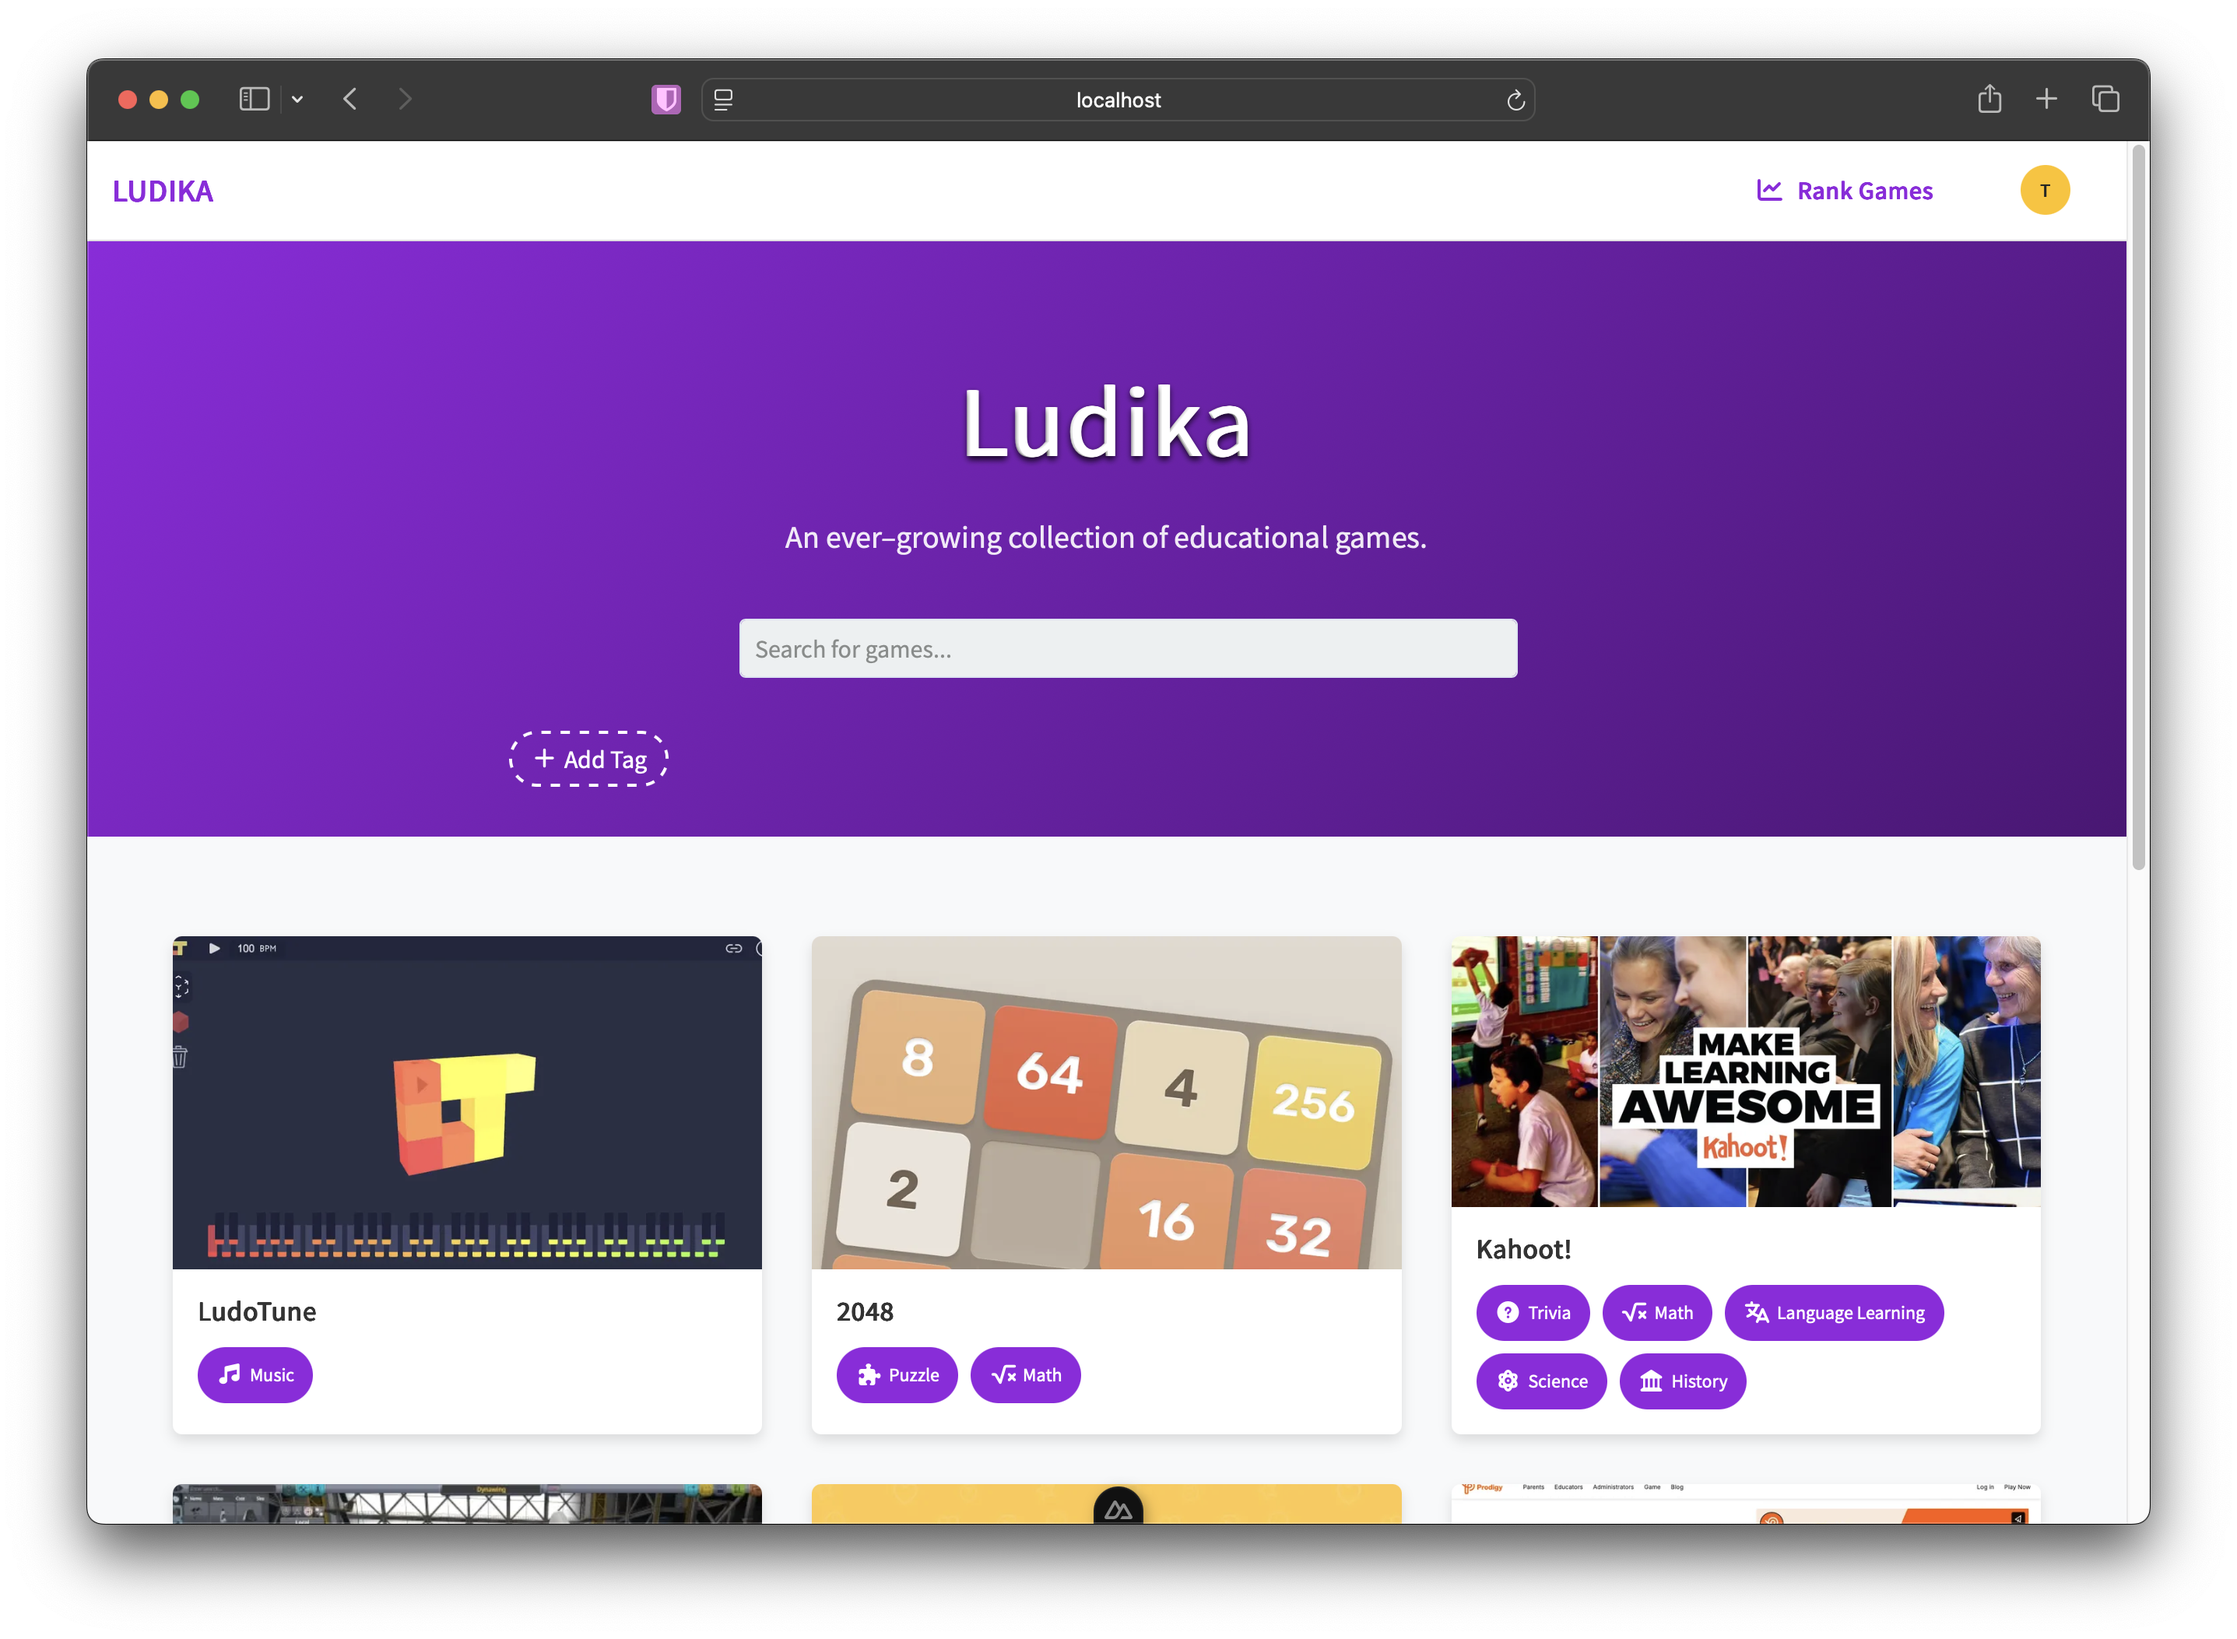
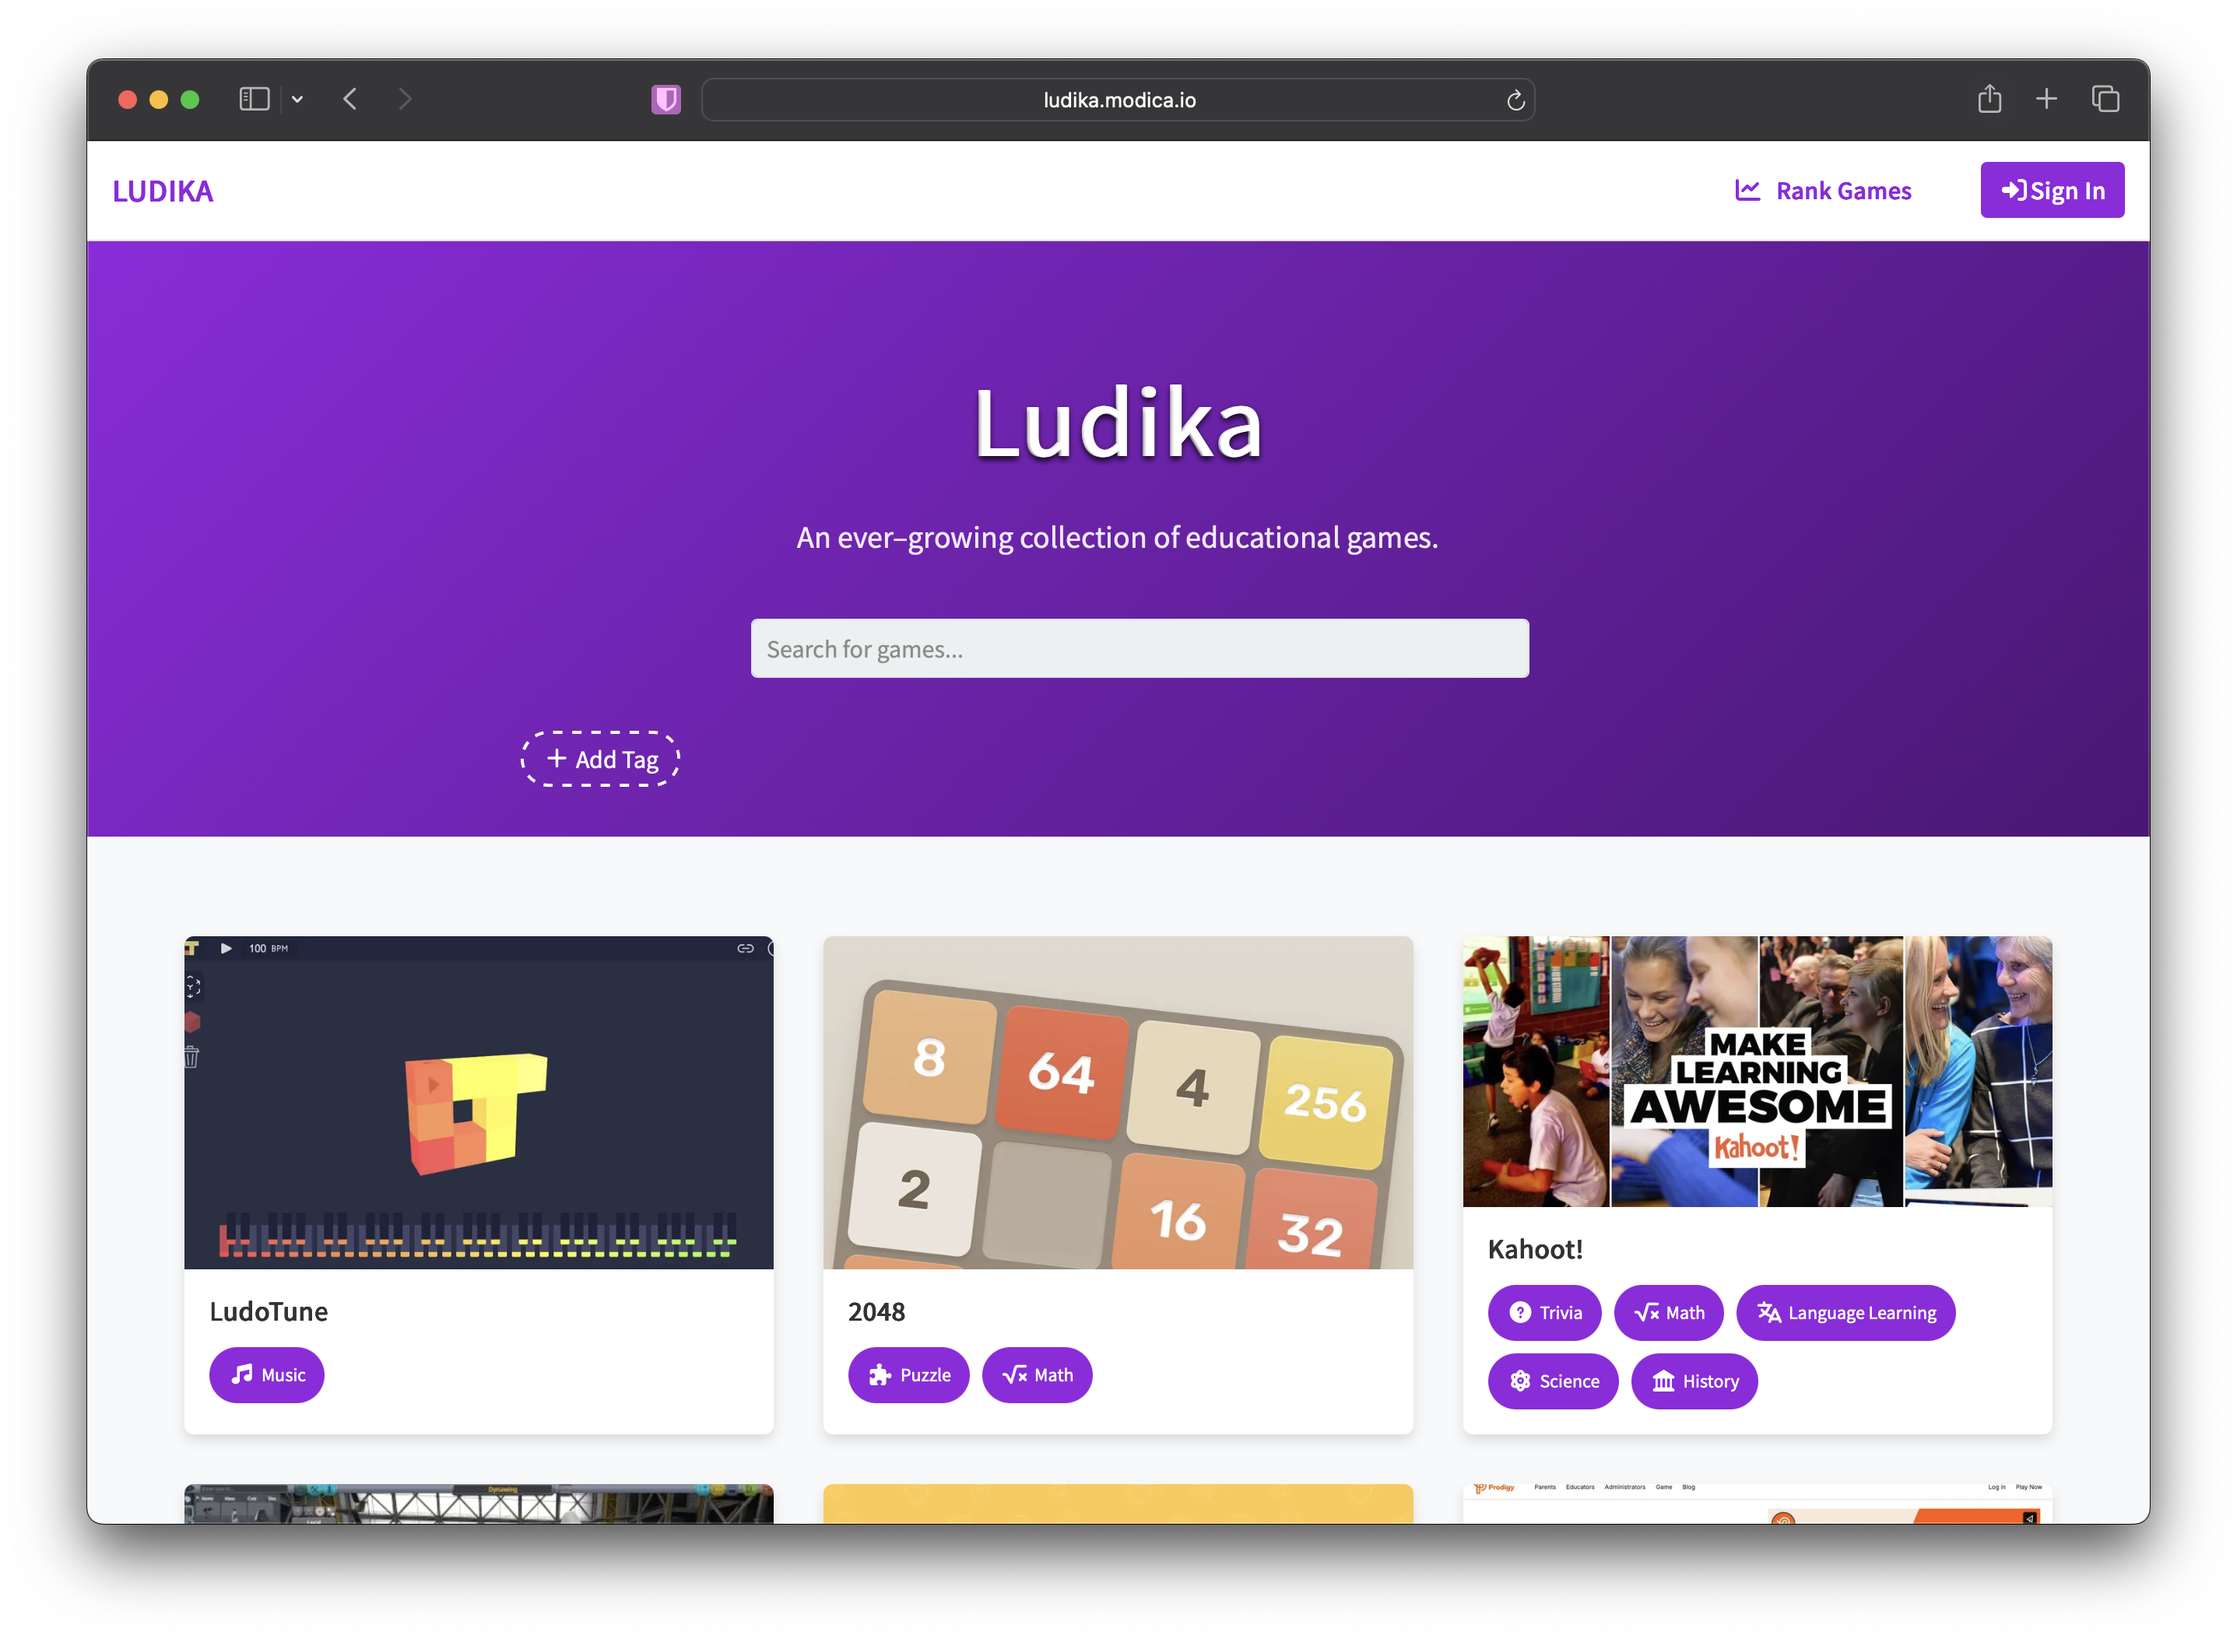
feat: expand documentation

diff --git a/ludika-docs/paper/pii_relazione.tex b/ludika-docs/paper/pii_relazione.tex
@@ -159,14 +159,14 @@ In order to achieve these goals, the project was developed using a three-tier ar
 
 The use of Docker allows for easy deployment and management of the various components of the system, and the Cloudflare CDN enables fast and reliable content delivery.
 
-\section{Related Work---a comparative overview}
-\todo{add a comparative analysis of the most similar existing platforms, and/or relevant studies that have been conducted in the past.}
+% \section{Related Work---a comparative overview}
+% \todo{add a comparative analysis of the most similar existing platforms, and/or relevant studies that have been conducted in the past.}
 
 \section{Innovation of the proposed solution}
 
-The core value-add of the proposed solution is the tight integration of all the core components (game discovery, agentic web scraping, a ranking algorithm and the fine-tuned game indexing and scraping systems) into a single platform. In particular, the ability for teachers to define their own criteria makes using this platform more helpful, relevant and personal than any experience possible using a generic off-the-shelf CMS solution like Wordpress.
+The core value-add of Ludika is the tight integration of all the core components (game discovery, agentic web scraping, a ranking algorithm and the fine-tuned game indexing and scraping systems) into a single platform, and the bespoke agentic functionality it offers. In particular, the ability for teachers to define their own criteria makes using this platform more helpful, relevant and personal than any experience possible using a generic off-the-shelf CMS solution like Wordpress.
 
-To achieve this, the web scraping component of the platform implements a \href{https://en.wikipedia.org/wiki/Multi-agent_system}{Multi-Agent System (MAS)}: a system composed of different specialist agents and programmatic tools arranged in a pipeline to fetch, evaluate, index, enrich with metadata and therefore categorize educational games found in organic discussions between users of the popular internet site Reddit or proposed directly by a content moderator. An additional scraper is used to fetch images and other information from the web (Wikipedia, Google and Tavily).
+To achieve this, the web scraping component of the platform implements a \href{https://en.wikipedia.org/wiki/Multi-agent_system}{Multi-Agent System (MAS)}: the go-to design for complex applications leveraging Large Language Models, it is a system composed of different specialist agents and programmatic tools arranged in a pipeline to fetch, evaluate, index, enrich with metadata and therefore categorize educational games found in organic discussions between users of the popular internet site Reddit or proposed directly by a content moderator. An additional scraper is used to fetch images and other information from the web (Wikipedia, Google and Tavily).
 
 \begin{figure}[H]
     \centering
@@ -221,7 +221,7 @@ The platform is built upon a robust technology stack that includes:
 \begin{figure}[H]
     \centering
     \includegraphics[width=\textwidth,trim={2cm 0 2cm 0}]{figures/pdfs/Architecture.pdf}
-    \caption{Architecture Diagram}
+    \caption{Architectural Diagram}
 \end{figure}
 
 The architecture of the platform is designed to be modular and horizontally scalable. \textbf{Most of the functionality is delegated to the server, while the client is exclusively responsible for the presentation layer, provided by Nuxt and also partially rendered on the server}.
@@ -358,6 +358,68 @@ Optional authentication is useful for endpoints that are not protected by defaul
 The frontend was developed using Nuxt, a Node framework for building server-rendered applications with Vue. The goal was to create a responsive, mobile-friendly single-page application that exposes all the functionality implemented in the API.
 
 To that end, open-source components from the Vuestic UI library were used in conjunction with custom components to create a modern and visually appealing UI. Nuxt Images is used for optimized loading of images, and a variety of custom composables handle the interaction with the API.
+
+When the user opens the website, they are immediately presented with a store-like view of the available games, with a search bar and a tag selector to fine-tune the results.
+
+\begin{figure}[H]
+    \centering
+    \includegraphics[width=0.9\textwidth,trim={0 2cm 0 1cm}]{figures/ludika_homepage.png}
+    \caption{Ludika Homepage}
+\end{figure}
+
+Much care went into designing the game detail page, which provides a comprehensive overview of the game along with its metadata and image slideshow, but is also home to the game's reviews and ratings:
+
+\begin{figure}[H]
+    \centering
+    \includegraphics[width=0.9\textwidth,trim={0 1cm 0 1cm}]{figures/game_detail_view.png}
+    \includegraphics[width=0.9\textwidth,trim={0 2cm 0 1cm}]{figures/game_detail_review.png}
+    \caption{Ludika Game Detail Page, showing a user's review}
+\end{figure}
+
+Users must log in to leave a review. Anyone can freely create an account through the registration page, and users get logged in automatically after registration.
+
+\begin{figure}[H]
+    \centering
+    \includegraphics[width=0.9\textwidth,trim={0 1cm 0 1cm}]{figures/login.png}
+    \caption{The sign-in page, which can be accessed from anywhere and automatically opens when the user tries to access a protected route.}
+\end{figure}
+
+\begin{figure}[H]
+    \centering
+    \includegraphics[width=0.9\textwidth,trim={0 1cm 0 1cm}]{figures/edit_review.png}
+    \caption{Users can review games to provide feedback and ratings. Each review can include any number of ratings from the available criteria.}
+\end{figure}
+
+The core feature of this project---comparative game evaluation---is implemented in the \textit{Rank Games} section, accessible from the top bar.
+
+\begin{figure}[H]
+    \centering
+    \includegraphics[width=0.9\textwidth,trim={0 1cm 0 1cm}]{figures/rank_games.png}
+    \caption{\textit{Rank Games} shares its \texttt{GameLibrary} component with the main screen, as well as other views (e.g. the \textit{My Games} screen), with \texttt{prop}-based customization options to adapt it to the specific use case.}
+\end{figure}
+
+Vue props are used extensively throughout the application to pass configuration and data assignments to custom components. This makes it as easy as this to define a new view using the \texttt{GameLibrary} component:
+
+\begin{lstlisting}[language=HTML]
+<template>
+    <div>
+        <GameLibrary title="My Games"
+                     subtitle="Manage your created games"
+                     apiEndpoint="/api/v1/games/my-games"
+                    :showHero="true" :searchable="true"
+                    :tagFilterable="false"
+        />
+    </div>
+</template>
+\end{lstlisting}
+
+Forms are also widely used within the application. Some forms also integrate cards and choice dropdowns to provide a more interactive and intuitive editing of structured items. Such is the case for reviews (as seen above), as well as the editing of custom ranking profiles for games.
+
+\begin{figure}[H]
+    \centering
+    \includegraphics[width=0.9\textwidth,trim={0 1cm 0 1cm}]{figures/rank_profile.png}
+    \caption{The ranking profile editor allows users to create custom profiles with a set of criteria and weights, which can then be used to rank games.}
+\end{figure}
 
 \subsubsection{Agentic Web Scraping}
 \todo{Add a detailed description of the agentic web scraping. Will be included once the agentic web scraping is complete.}

diff --git a/ludika-backend/ludika_backend/controllers/ai/agents.py b/ludika-backend/ludika_backend/controllers/ai/agents.py
@@ -34,9 +34,15 @@ class GameCreationResponse(BaseModel):
     """Structured response for game creation operations"""
 
     success: bool = Field(description="Whether the operation was successful")
-    game_id: Optional[str] = Field(description="UUID of the created game, or null if not created")
-    message: Optional[str] = Field(description="Human-readable message about the operation")
-    game: Optional[GamePublic] = Field(description="The created game object, if successful")
+    game_id: Optional[str] = Field(
+        description="UUID of the created game, or null if not created"
+    )
+    message: Optional[str] = Field(
+        description="Human-readable message about the operation"
+    )
+    game: Optional[GamePublic] = Field(
+        description="The created game object, if successful"
+    )
 
 
 class GameObjectGenerationResponse(BaseModel):
@@ -44,8 +50,12 @@ class GameObjectGenerationResponse(BaseModel):
 
     success: bool = Field(description="Whether the operation was successful")
     game_id: Optional[str] = Field(description="Always null for generation operations")
-    message: Optional[str] = Field(description="Human-readable message about the operation")
-    game_object: Optional[GameCreate] = Field(description="The generated game object, if successful")
+    message: Optional[str] = Field(
+        description="Human-readable message about the operation"
+    )
+    game_object: Optional[GameCreate] = Field(
+        description="The generated game object, if successful"
+    )
 
 
 class EducationalGameURLResponse(BaseModel):
@@ -65,14 +75,26 @@ class EducationalGameURLResponse(BaseModel):
 
 if os.getenv("NVIDIA_API_KEY") is None:
     if get_config_value("GenerativeAI", "nvidia_api_key") is None:
-        raise ValueError("NVIDIA_API_KEY is not set and nvidia_api_key is not set in config.ini")
+        raise ValueError(
+            "NVIDIA_API_KEY is not set and nvidia_api_key is not set in config.ini"
+        )
     os.environ["NVIDIA_API_KEY"] = get_config_value("GenerativeAI", "nvidia_api_key")
 
 NVIDIA_MODEL_NAME = get_config_value("GenerativeAI", "nvidia_model")
 
-llm = ChatNVIDIA(model=NVIDIA_MODEL_NAME, rate_limiter=rate_limiter_nvidia)
+llm = ChatNVIDIA(
+    model=NVIDIA_MODEL_NAME,
+    rate_limiter=(
+        rate_limiter_nvidia
+        if bool(get_config_value("GenerativeAI", "rate_limit_nvidia"))
+        else None
+    ),
+)
 
-def create_agent_executor_for_game_create(url: str, game_added_callback: Callable | None = None):
+
+def create_agent_executor_for_game_create(
+    url: str, game_added_callback: Callable | None = None
+):
     """Create an agent executor for game creation with a fixed URL"""
     tools = get_tools_for_game_create(url, game_added_callback)
     prompt = get_prompt_for_game_create(url)
@@ -91,7 +113,9 @@ def create_agent_executor_for_object_generation(url: str):
 
 
 class PossibleGameURLOutput(BaseModel):
-    url: str | None = Field(description="The URL of the possible game, or None if no game is found")
+    url: str | None = Field(
+        description="The URL of the possible game, or None if no game is found"
+    )
 
     @field_validator("url")
     def validate_url(cls, v):
@@ -113,11 +137,11 @@ game_detection_agent = create_tool_calling_agent(
     ),
 )
 
-game_detection_executor = AgentExecutor(agent=game_detection_agent, tools=[tavily_search_tool])
+game_detection_executor = AgentExecutor(
+    agent=game_detection_agent, tools=[tavily_search_tool]
+)
 
 
 class DetectionResult(BaseModel):
     has_game_url: bool
     url: Optional[str]
-
-
